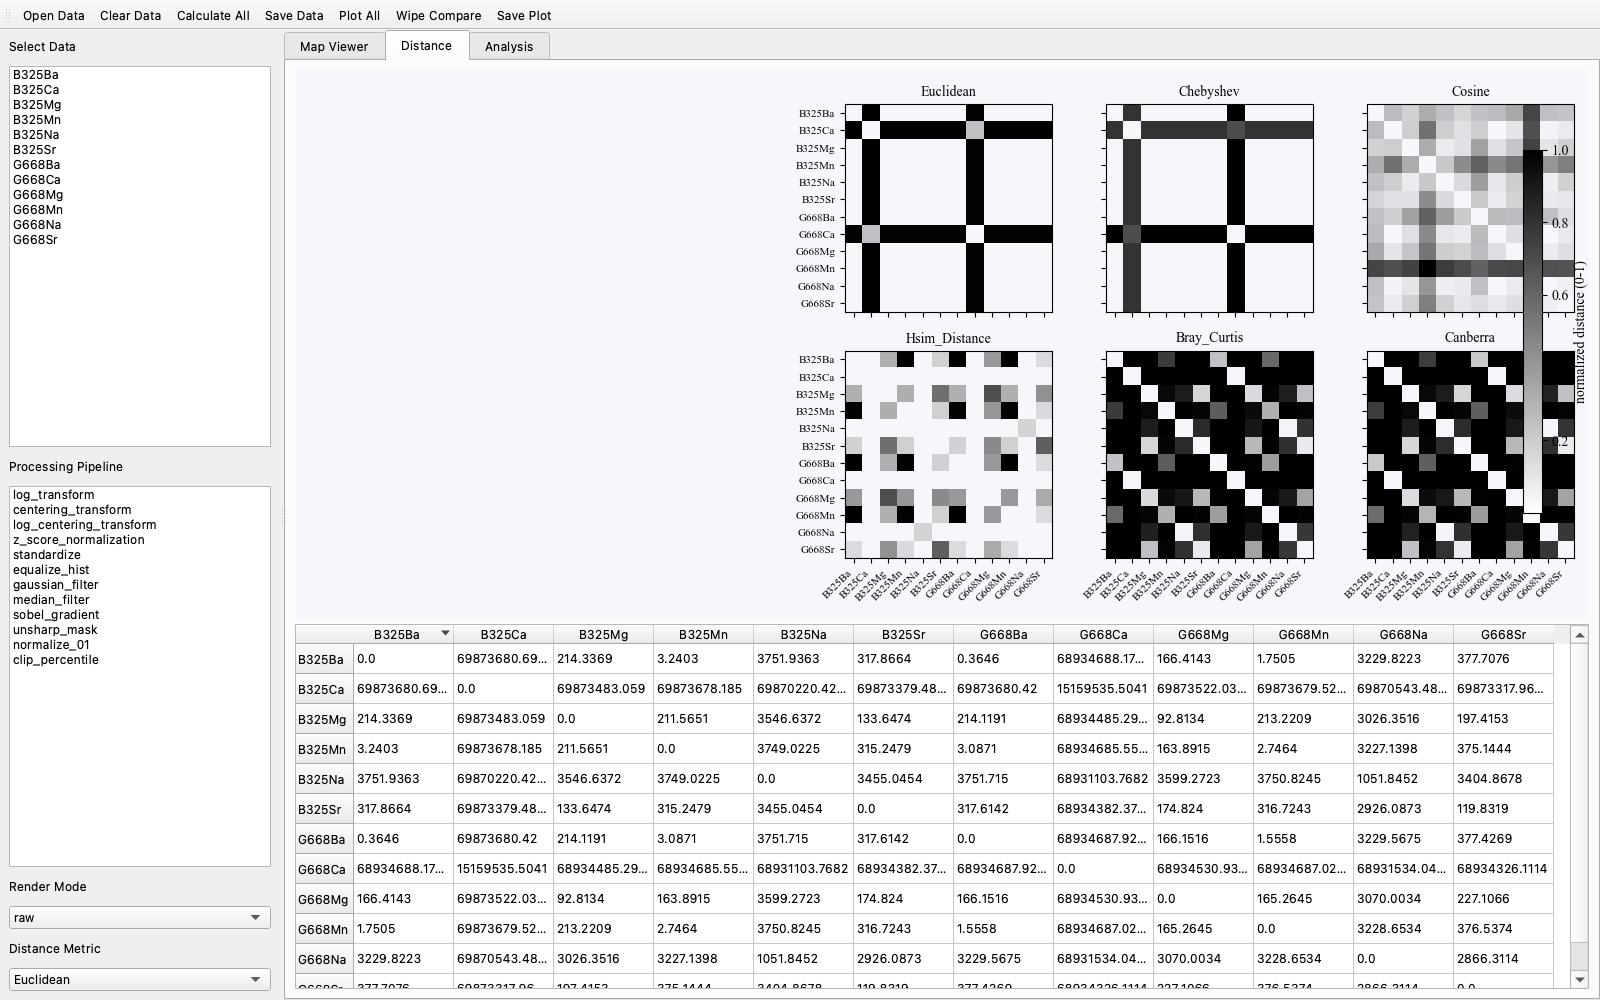
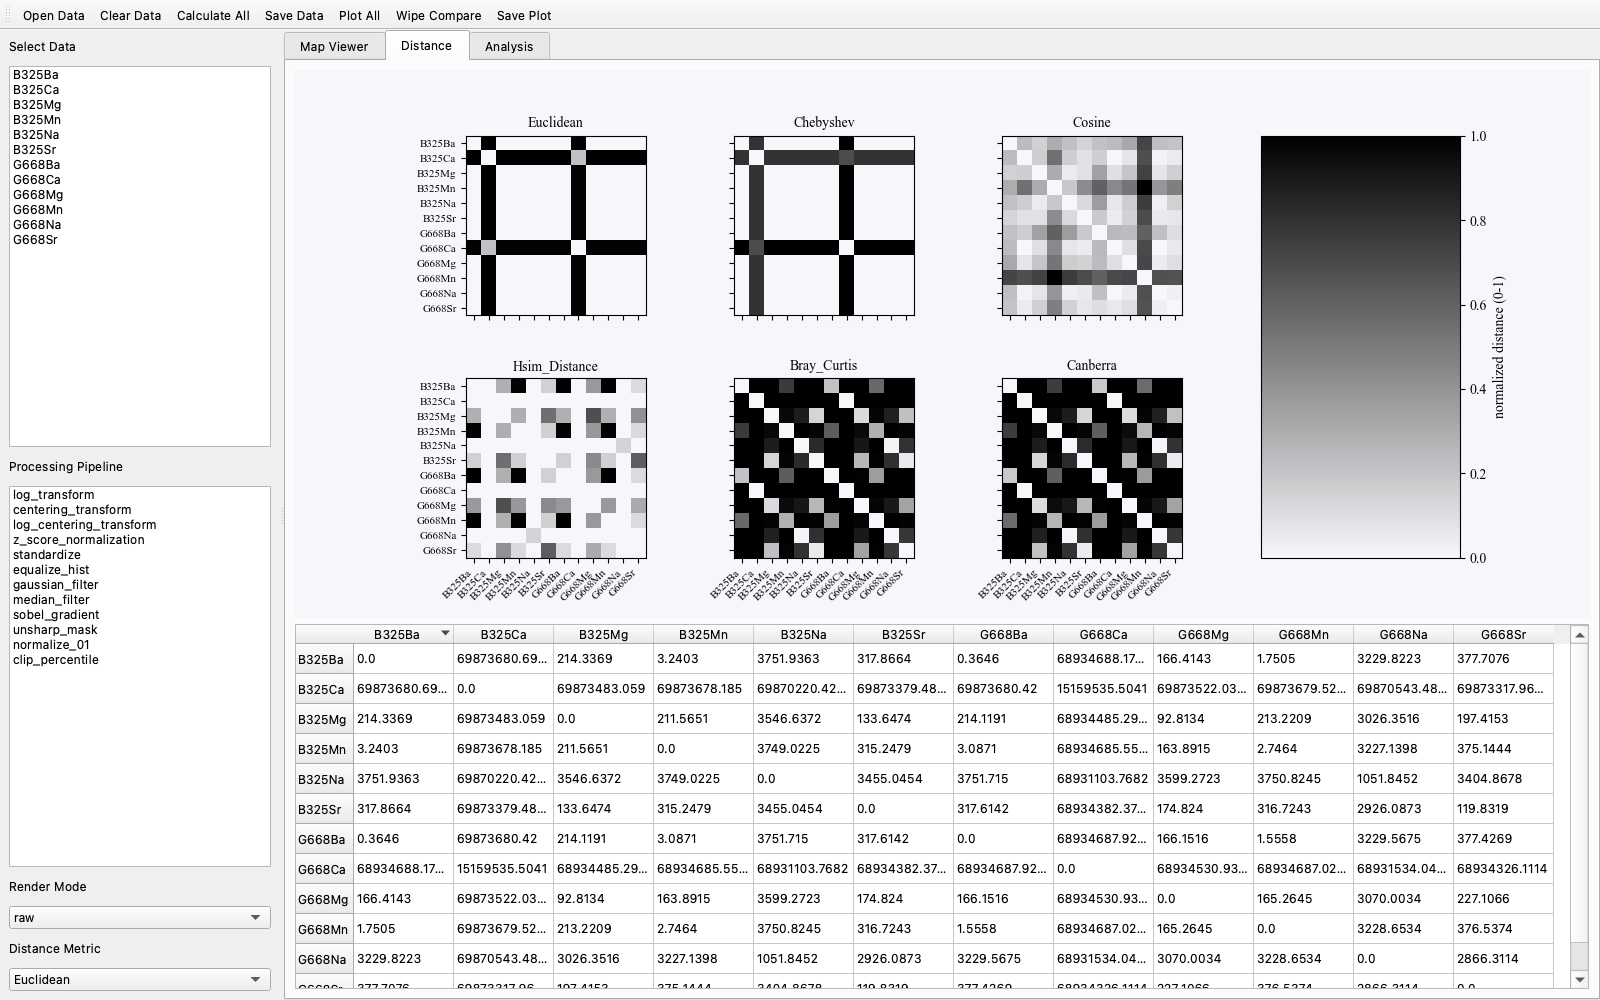
v1.2.3: distance grid 2x4 layout with even spacing
- 2x4 GridSpec: 6 heatmaps in cols 1-3, colorbar in col 4
- Heatmaps evenly distributed, no longer pushed right
- Wider canvas (12x6)

Changed region(s): [[0.4375, 0.093, 1.0, 0.62], [0.25, 0.341, 0.4062, 0.62], [0.25, 0.124, 0.4062, 0.31]]

diff --git a/cpsvisualizer/src/cpsvisualizer/app.py b/cpsvisualizer/src/cpsvisualizer/app.py
@@ -500,7 +500,7 @@ class CPSVisualizer(QMainWindow):
     def _build_distance_tab(self):
         tab = QWidget()
         v = QVBoxLayout()
-        self._dist_canvas = FigureCanvas(Figure(figsize=(9, 6), dpi=self.dpi))
+        self._dist_canvas = FigureCanvas(Figure(figsize=(12, 6), dpi=self.dpi))
         self._table = CustomQTableView()
         v.addWidget(self._dist_canvas, 3)
         v.addWidget(self._table, 2)
@@ -706,8 +706,9 @@ class CPSVisualizer(QMainWindow):
                  'Hsim_Distance', 'Bray_Curtis', 'Canberra']
 
     def _plot_distance_grid(self):
-        """Render the six representative distance metrics as a 2x3 grid of
-        0-1 normalized heatmaps on the Distance tab."""
+        """Render the six representative distance metrics as a 2x4 grid of
+        0-1 normalized heatmaps on the Distance tab.  The eighth cell holds
+        a shared colorbar so the six heatmaps keep an even layout."""
         fig = self._dist_canvas.figure
         fig.clear()
         fig.patch.set_facecolor(FIG_BG)
@@ -721,9 +722,13 @@ class CPSVisualizer(QMainWindow):
         names = self.df_name_list
         n = len(names)
         metrics = [m for m in self.DIST_GRID if m in self._dist_funcs]
-        nrows, ncols = 2, 3
+        nrows, ncols = 2, 4
+        # use a GridSpec: 6 heatmap cells + 1 dedicated colorbar cell
+        from matplotlib.gridspec import GridSpec
+        gs = GridSpec(nrows, ncols, figure=fig,
+                      width_ratios=[1, 1, 1, 1], wspace=0.35, hspace=0.35)
         images = []
-        for pos, mname in enumerate(metrics, 1):
+        for pos, mname in enumerate(metrics):
             if mname not in self.result_df_dict:
                 self.result_df_dict[mname] = compute_pairwise_matrix(
                     self.df_list, names, self._dist_funcs[mname])
@@ -735,7 +740,8 @@ class CPSVisualizer(QMainWindow):
                 if hi - lo > 1e-12:
                     vals = (vals - lo) / (hi - lo)
                     np.fill_diagonal(vals, 0.0)
-            ax = fig.add_subplot(nrows, ncols, pos)
+            row, col = pos // 3, pos % 3
+            ax = fig.add_subplot(gs[row, col])
             ax.set_facecolor(FIG_BG)
             im = ax.imshow(vals, cmap=ink_colormap(), vmin=0.0, vmax=1.0,
                            aspect='equal')
@@ -743,8 +749,6 @@ class CPSVisualizer(QMainWindow):
             ax.set_title(mname, fontsize=10)
             ax.set_xticks(range(n))
             ax.set_yticks(range(n))
-            col = (pos - 1) % ncols
-            row = (pos - 1) // ncols
             if row == nrows - 1:
                 ax.set_xticklabels(names, rotation=45, ha='right', fontsize=8)
             else:
@@ -753,11 +757,18 @@ class CPSVisualizer(QMainWindow):
                 ax.set_yticklabels(names, fontsize=8)
             else:
                 ax.set_yticklabels([])
-        # single shared colorbar on the right
+        # dedicated colorbar in the last column, spanning both rows
+        cax = fig.add_subplot(gs[:, 3])
+        cax.set_facecolor(FIG_BG)
         if images:
-            cbar = fig.colorbar(images[-1], ax=fig.get_axes(),
-                                shrink=0.8, fraction=0.04, pad=0.02)
+            import matplotlib as _mpl
+            norm = _mpl.colors.Normalize(vmin=0.0, vmax=1.0)
+            sm = _mpl.cm.ScalarMappable(cmap=ink_colormap(), norm=norm)
+            sm.set_array([])
+            cbar = fig.colorbar(sm, cax=cax, shrink=0.9)
             cbar.set_label('normalized distance (0-1)')
+        else:
+            cax.axis('off')
         fig.tight_layout()
         self._dist_canvas.draw()
 

diff --git a/cpsvisualizer/src/setup.py b/cpsvisualizer/src/setup.py
@@ -15,7 +15,7 @@ except Exception:
 
 setup(
     name='cpsvisualizer',
-    version='1.2.2',
+    version='1.2.3',
     description='CPS-Visualizer: Visualization, similarity measurement, and statistical analysis of LA-ICP-MS surface scan data.',
     long_description=README,
     long_description_content_type='text/markdown',
